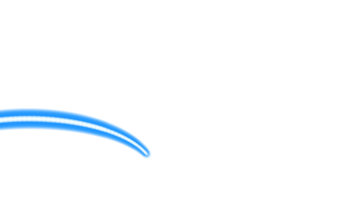
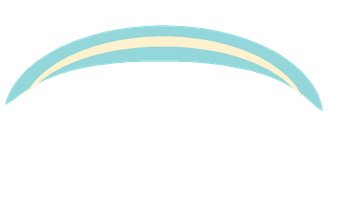
feat(boss): redraw rising slash arcs and pursuit trails so they align with the blade.

Changed region(s): [[0.0, 0.1143, 0.9706, 0.7714]]

diff --git a/tools/RisingSlash/draw-combat-effects.py b/tools/RisingSlash/draw-combat-effects.py
@@ -1,0 +1,130 @@
+"""Original Rising Slash ribbons/sparks; rerun from any working directory.
+
+Preserves each existing PNG's dimensions, alpha format, Unity GUID and pivot.
+Paths describe the sword sweep, not a hitbox; contact sparks are event-driven.
+"""
+from pathlib import Path
+from math import sin, cos, pi
+from PIL import Image, ImageDraw
+import argparse
+import os
+from io import BytesIO
+import tempfile
+
+parser = argparse.ArgumentParser(description=__doc__)
+parser.add_argument('--family', nargs='+', choices=['Rush','High','Low','Fin','Hit','Warn'])
+selected = parser.parse_args().family
+
+ROOT = Path(__file__).resolve().parents[2]
+ART = ROOT / 'Assets/K4RMA/Arts/Bosses/RisingSlash/Effects'
+S = 3
+
+
+def polygon(draw, points, color):
+    draw.polygon([(round(x*S), round(y*S)) for x, y in points], fill=color)
+
+
+def ribbon(draw, cx, cy, rx, ry, start, end, width, color):
+    outer, inner = [], []
+    for i in range(65):
+        t = i / 64
+        a = (start + (end-start)*t) * pi / 180
+        taper = sin(pi*t)**0.65
+        outer.append((cx + rx*cos(a), cy + ry*sin(a)))
+        inner.append((cx + (rx-width*taper)*cos(a), cy + (ry-width*taper)*sin(a)))
+    polygon(draw, outer + inner[::-1], color)
+
+
+def save(name, index, paint):
+    if selected and name not in selected:
+        return
+    path = Path(os.path.relpath(ART / f'{name}{index}.png'))
+    with Image.open(path) as source:
+        size = source.size
+    image = Image.new('RGBA', (size[0]*S, size[1]*S))
+    paint(ImageDraw.Draw(image), *size)
+    encoded = BytesIO()
+    image.resize(size, Image.Resampling.LANCZOS).save(encoded, format='PNG')
+    # Atomic replacement also works while an Editor holds an imported file open.
+    staging = Path(os.path.relpath(ROOT / 'output'))
+    staging.mkdir(exist_ok=True)
+    with tempfile.NamedTemporaryFile(dir=staging, suffix='.png', delete=False) as stream:
+        stream.write(encoded.getvalue())
+        temporary = stream.name
+    try:
+        os.replace(temporary, path)
+    finally:
+        if os.path.exists(temporary):
+            os.unlink(temporary)
+
+
+def blade(name, count, cx_ratio, cy_ratio, rx_ratio, ry_ratio, sweeps, widths):
+    for frame in range(count):
+        def paint(d, w, h, frame=frame):
+            # The stroke crosses the sprite, so scaling the frame to a hitbox
+            # keeps the blade on the sword path instead of a canvas corner.
+            cx, cy = w * cx_ratio, h * cy_ratio
+            rx, ry = w * rx_ratio, h * ry_ratio
+            start, end = sweeps[frame]
+            width = widths[frame]
+            alpha = [210, 255, 150, 80, 36][frame]
+            color = (147, 215, 218, alpha)
+            if frame < 3:
+                ribbon(d, cx, cy, rx, ry, start, end, width, color)
+                ribbon(d, cx, cy, rx * 0.9, ry * 0.88, start + 8, end - 10, max(4, width * 0.28), (255, 241, 205, alpha))
+            else:
+                span = (end - start) / 5
+                for segment in range(4):
+                    a0 = start + segment * span
+                    ribbon(d, cx, cy, rx - segment * 4, ry - segment * 3, a0, a0 + 22, max(4, width), color)
+        save(name, frame, paint)
+
+
+# High: overhead crescent. Low: blade along the bottom. Fin: the full committed sweep.
+blade('High', 4, 0.50, 0.60, 0.46, 0.40,
+      [(206, 286), (196, 352), (248, 392), (286, 418)], [18, 30, 14, 7])
+blade('Low', 4, 0.50, 0.76, 0.46, 0.30,
+      [(18, 78), (8, 172), (28, 204), (48, 214)], [16, 26, 12, 6])
+blade('Fin', 5, 0.48, 0.56, 0.47, 0.44,
+      [(200, 278), (188, 356), (228, 396), (268, 424), (304, 442)], [20, 36, 16, 8, 4])
+for i in range(6):
+    def rush(d, w, h, i=i):
+        # Rearward ribbons. The tail stays on the left edge so the wake
+        # does not collapse into a blob at the leading tip.
+        for j in range(3):
+            y = h * (0.30 + j * 0.18)
+            tail = 3 + j * 8
+            tip = w * (0.48 + i * 0.09) - j * 10
+            half = max(7, 14 - i - j * 2)
+            polygon(d, [(tail, y - half * 0.25), (tip, y - half),
+                        (tip - 16, y + 1), (tail, y + half * 0.35)],
+                    (171, 210, 204, max(50, 220 - i * 26 - j * 20)))
+        for j in range(3):
+            x = w * (0.06 + j * 0.10) + i * 5
+            y = h * (0.72 + j * 0.06)
+            polygon(d, [(x, y), (x + 16, y - 5), (x + 28, y + 1), (x + 8, y + 6)],
+                    (207, 186, 151, max(30, 140 - i * 18)))
+    save('Rush', i, rush)
+for i in range(5):
+    def hit(d,w,h):
+        cx,cy=w*.5,h*.5
+        for j in range(7):
+            a=(j*360/7+16)*pi/180
+            inner=2+i*8; outer=[24,61,72,83,88][i]*(.6+(j%3)*.2)
+            width=[7,5,3,2,1][i]
+            polygon(d,[(cx+cos(a)*inner,cy+sin(a)*inner),
+                       (cx+cos(a)*outer-sin(a)*width,cy+sin(a)*outer+cos(a)*width),
+                       (cx+cos(a)*(outer+12),cy+sin(a)*(outer+12)),
+                       (cx+cos(a)*outer+sin(a)*width,cy+sin(a)*outer-cos(a)*width)],
+                       (255,231-j*4,174,max(0,255-i*53)))
+        if i < 2:
+            polygon(d,[(cx-6,cy),(cx,cy-13),(cx+7,cy),(cx,cy+10)],(255,255,239,255))
+    save('Hit',i,hit)
+for i in range(4):
+    def warn(d,w,h):
+        cx,cy=w*.5,h*.5; extent=[9,18,29,13][i]
+        polygon(d,[(cx-extent,cy),(cx-3,cy-2),(cx,cy-extent*.6),(cx+3,cy-2),
+                   (cx+extent,cy),(cx+3,cy+2),(cx,cy+extent*.6),(cx-3,cy+2)],(255,219,152,220))
+        ribbon(d,cx,cy,extent*1.5,extent*1.2,195,320,2,(185,216,206,100))
+    save('Warn',i,warn)
+print('Replaced Rush/High/Low/Fin/Hit/Warn frames; dimensions and import metadata preserved.')
